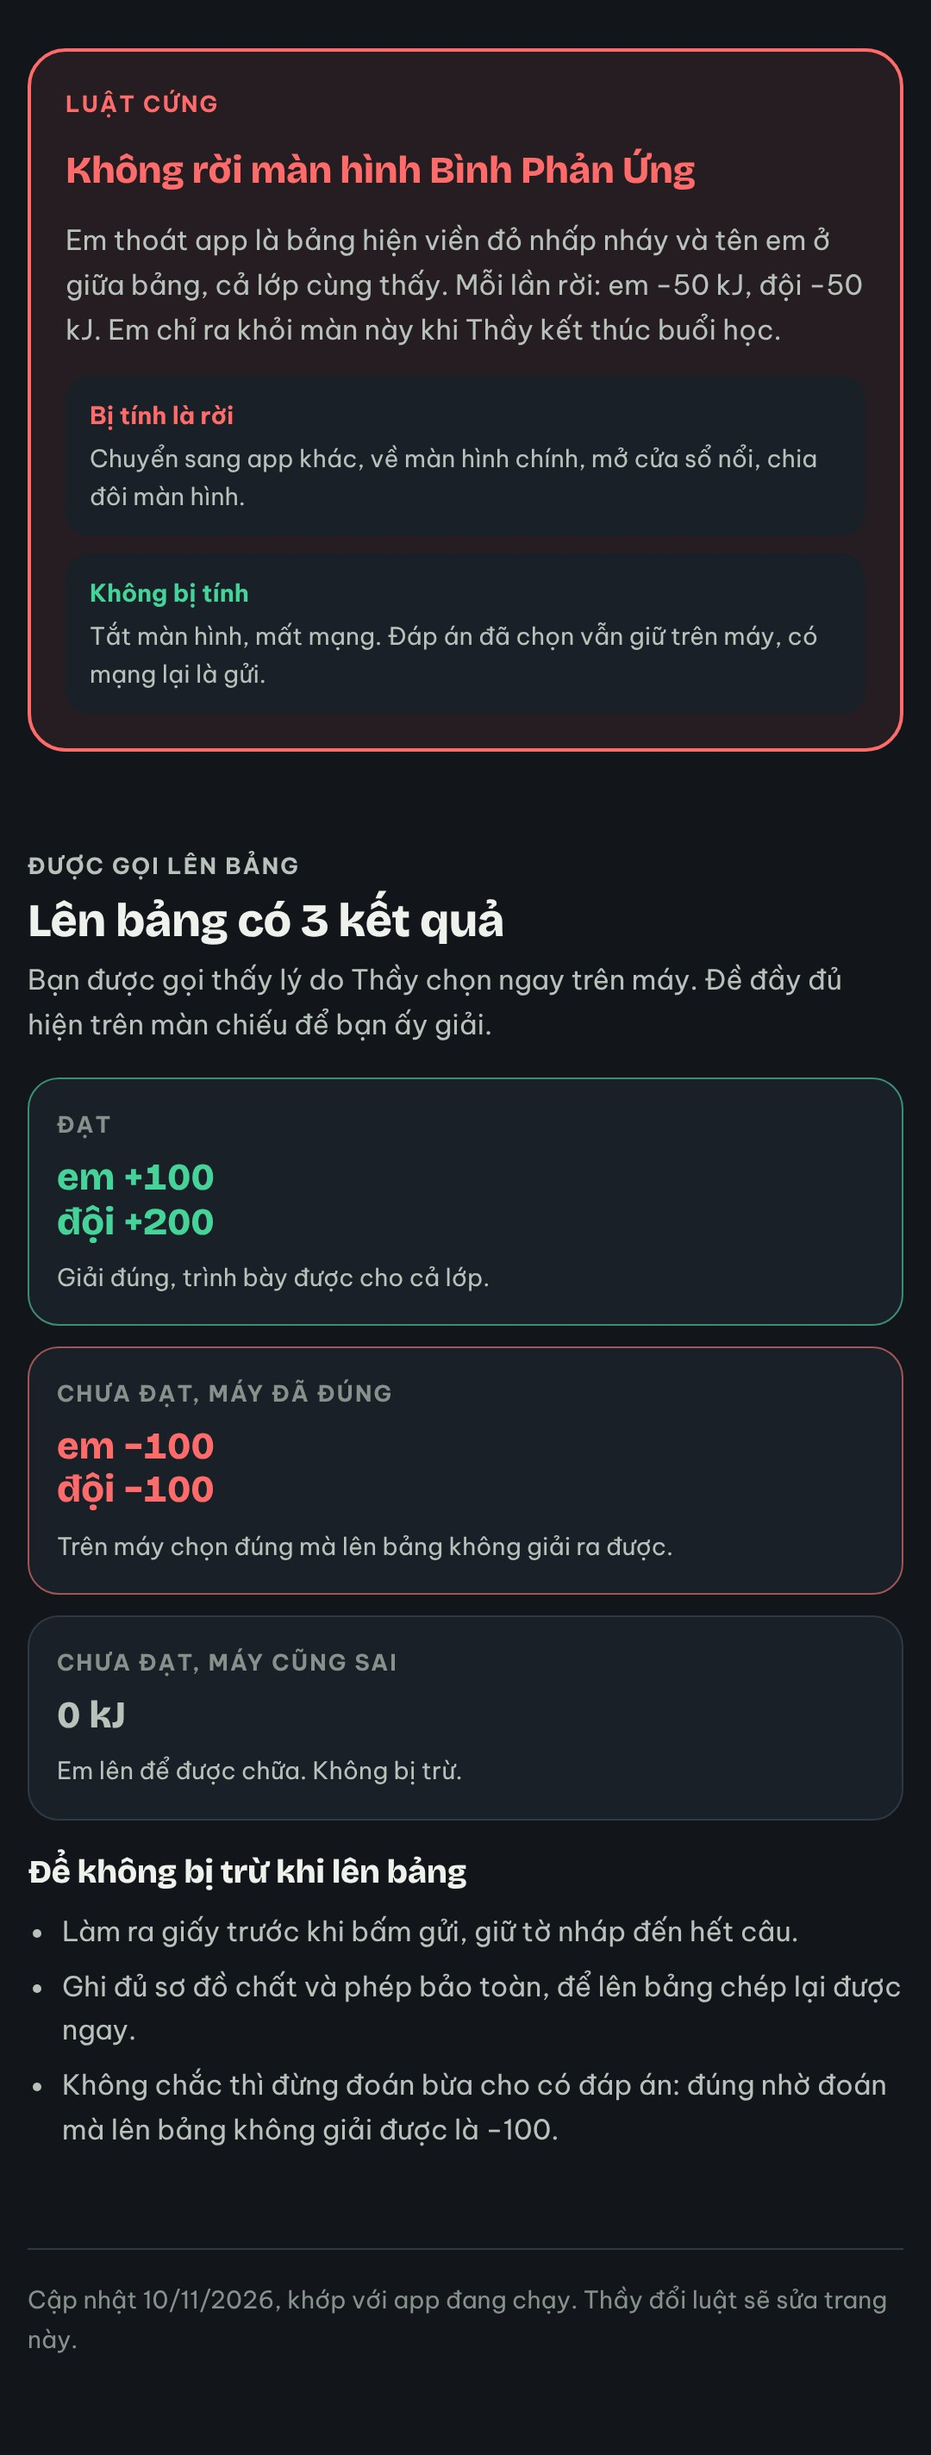
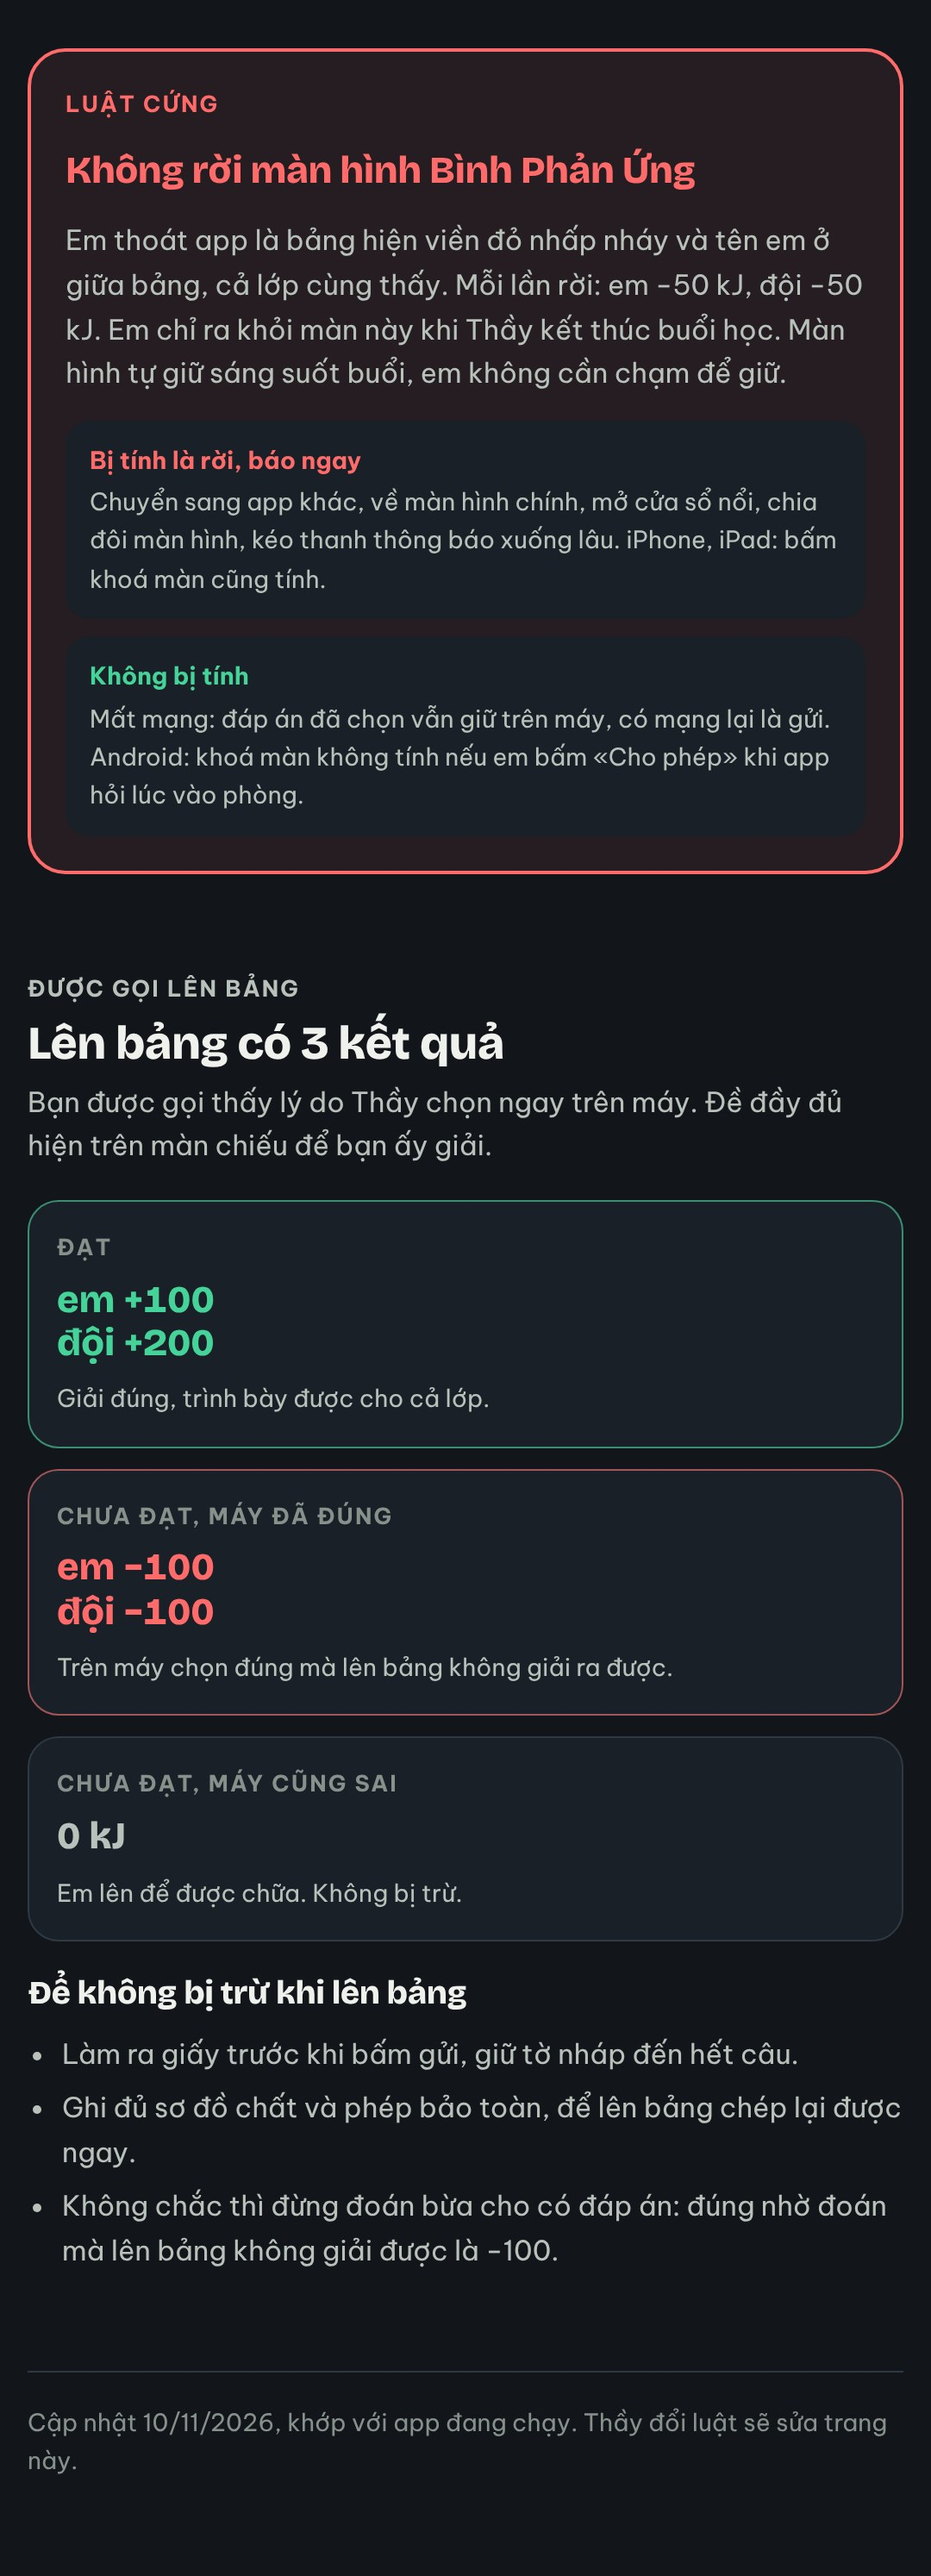
Trang giới thiệu BPU: luật rời màn mới (iPhone khoá màn tính rời, Android cho phép thì không; màn tự giữ sáng) [skip ci]
Claude-Session: https://claude.ai/code/session_01Ghxeuws3PppP7uS2JteAn5

diff --git a/docs/gioi-thieu-bpu/len-bang-binh-phan-ung.html b/docs/gioi-thieu-bpu/len-bang-binh-phan-ung.html
@@ -285,10 +285,10 @@ section { display: flex; flex-direction: column; gap: 18px; }
     <div class="bao-dong">
       <p class="nhan" style="color:var(--tru)">Luật cứng</p>
       <h3 id="roi-man">Không rời màn hình Bình Phản Ứng</h3>
-      <p style="color:var(--phan-2)">Em thoát app là bảng hiện viền đỏ nhấp nháy và tên em ở giữa bảng, cả lớp cùng thấy. Mỗi lần rời: em −50 kJ, đội −50 kJ. Em chỉ ra khỏi màn này khi Thầy kết thúc buổi học.</p>
+      <p style="color:var(--phan-2)">Em thoát app là bảng hiện viền đỏ nhấp nháy và tên em ở giữa bảng, cả lớp cùng thấy. Mỗi lần rời: em −50 kJ, đội −50 kJ. Em chỉ ra khỏi màn này khi Thầy kết thúc buổi học. Màn hình tự giữ sáng suốt buổi, em không cần chạm để giữ.</p>
       <div class="luat">
-        <div><span class="tinh">Bị tính là rời</span><p>Chuyển sang app khác, về màn hình chính, mở cửa sổ nổi, chia đôi màn hình.</p></div>
-        <div><span class="khong">Không bị tính</span><p>Tắt màn hình, mất mạng. Đáp án đã chọn vẫn giữ trên máy, có mạng lại là gửi.</p></div>
+        <div><span class="tinh">Bị tính là rời, báo ngay</span><p>Chuyển sang app khác, về màn hình chính, mở cửa sổ nổi, chia đôi màn hình, kéo thanh thông báo xuống lâu. iPhone, iPad: bấm khoá màn cũng tính.</p></div>
+        <div><span class="khong">Không bị tính</span><p>Mất mạng: đáp án đã chọn vẫn giữ trên máy, có mạng lại là gửi. Android: khoá màn không tính nếu em bấm «Cho phép» khi app hỏi lúc vào phòng.</p></div>
       </div>
     </div>
   </section>
